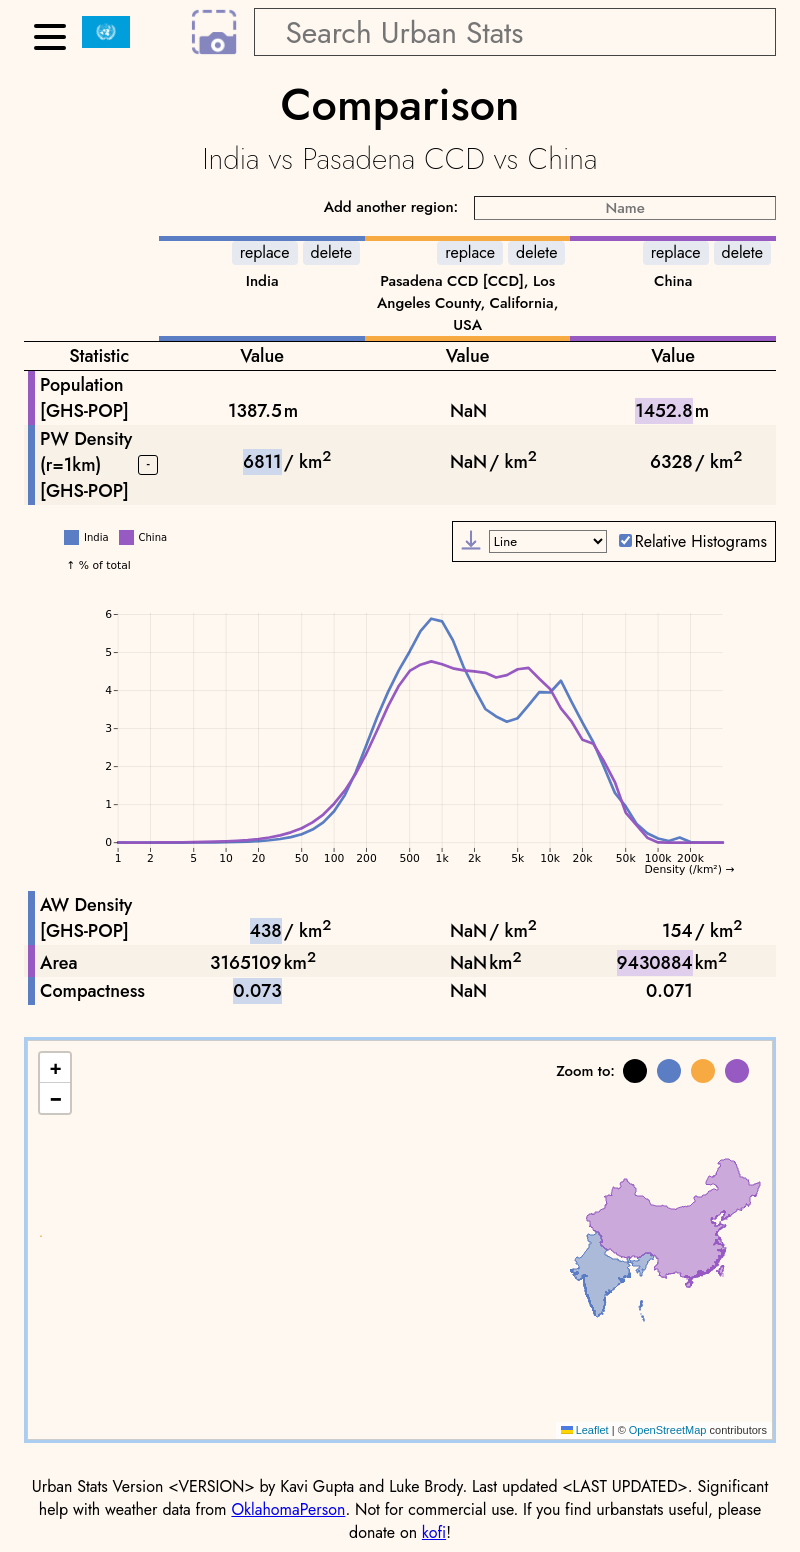
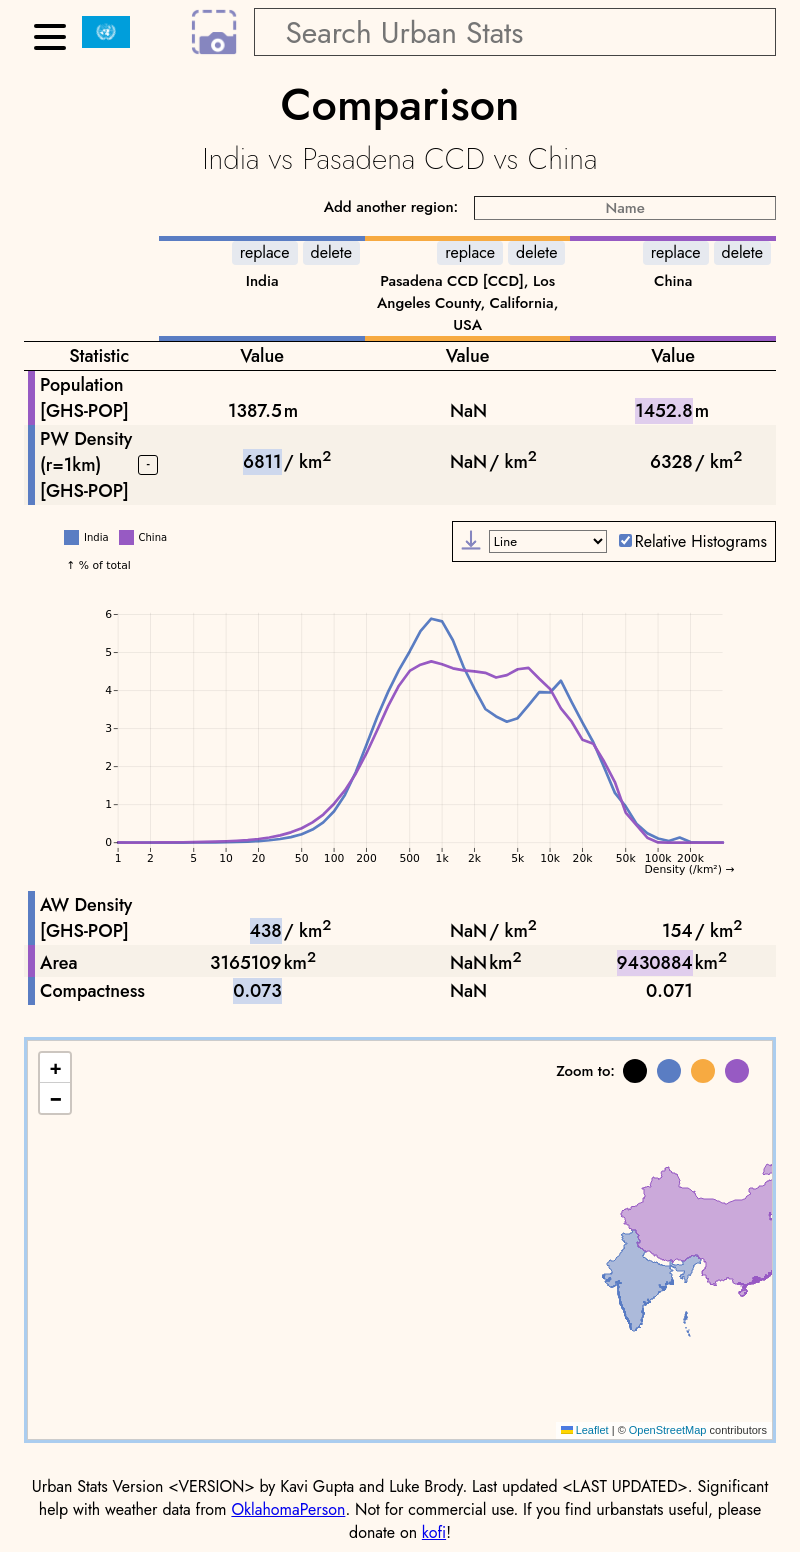
(3/3) Remove unecessary reloads, waits (#364)
Now that pages are responsive, we don't have to reload them for them to
update.

Update a few comparison screenshots since the map no longer repositions
on reload.

---------

Changed region(s): [[0.7188, 0.7423, 0.9688, 0.866]]

diff --git a/react/test/histogram_test.ts b/react/test/histogram_test.ts
@@ -1,6 +1,6 @@
 import { Selector } from 'testcafe'
 
-import { TARGET, check_textboxes, comparison_page, download_histogram, download_image, download_or_check_string, screencap, urbanstatsFixture } from './test_utils'
+import { TARGET, check_textboxes, comparison_page, download_histogram, download_image, download_or_check_string, screencap, urbanstatsFixture, waitForMapLoad } from './test_utils'
 
 export const upper_sgv = 'Upper San Gabriel Valley CCD [CCD], Los Angeles County, California, USA'
 export const pasadena = 'Pasadena CCD [CCD], Los Angeles County, California, USA'
@@ -18,8 +18,8 @@ async function download_or_check_histogram(t: TestController, name: string): Pro
 urbanstatsFixture('article check and uncheck test', `${TARGET}/article.html?longname=New+York+Urban+Center%2C+USA&universe=world`)
 
 test('histogram-article-check-uncheck', async (t) => {
+    await waitForMapLoad(t) // Need to avoid a race condition between map loading and page resizing
     await t.resizeWindow(800, 800)
-    await t.eval(() => { location.reload() })
     // count the number of `histogram-svg-panel` elements
     await t.expect(Selector('.histogram-svg-panel').count).eql(0)
     await t.click(Selector('.expand-toggle'))
@@ -31,19 +31,17 @@ test('histogram-article-check-uncheck', async (t) => {
 urbanstatsFixture('article test', `${TARGET}/article.html?longname=Germany&universe=world`)
 
 test('histogram-basic-article', async (t) => {
+    await waitForMapLoad(t) // Need to avoid a race condition between map loading and page resizing
     await t.resizeWindow(800, 800)
-    await t.eval(() => { location.reload() })
     await t.click(Selector('.expand-toggle'))
     await download_or_check_histogram(t, 'histogram-basic-article')
     await screencap(t)
 })
 
 test('histogram-basic-article-multi', async (t) => {
+    await waitForMapLoad(t) // Need to avoid a race condition between map loading and page resizing
     await t.resizeWindow(800, 800)
-    await t.eval(() => { location.reload() })
     await check_textboxes(t, ['Other Density Metrics'])
-    await t.eval(() => { location.reload() })
-    await t.wait(1000)
     const count = await Selector('.expand-toggle').count
     for (let i = 0; i < count; i++) {
         await t.click(Selector('.expand-toggle').nth(i))
@@ -57,8 +55,8 @@ test('histogram-basic-article-multi', async (t) => {
 urbanstatsFixture('comparison test heterogenous', comparison_page(['San Marino city, California, USA', pasadena, sw_sgv]))
 
 test('histogram-basic-comparison', async (t) => {
+    await waitForMapLoad(t) // Need to avoid a race condition between map loading and page resizing
     await t.resizeWindow(800, 800)
-    await t.eval(() => { location.reload() })
     // select element with class name `expand-toggle`
     await t.click(Selector('.expand-toggle'))
     await download_or_check_histogram(t, 'histogram-basic-comparison')
@@ -68,8 +66,8 @@ test('histogram-basic-comparison', async (t) => {
 urbanstatsFixture('comparison test heterogenous with nan', comparison_page(['India', 'China', pasadena]))
 
 test('histogram-basic-comparison-nan', async (t) => {
+    await waitForMapLoad(t) // Need to avoid a race condition between map loading and page resizing
     await t.resizeWindow(800, 800)
-    await t.eval(() => { location.reload() })
     // select element with class name `expand-toggle`
     await t.click(Selector('.expand-toggle'))
     await download_or_check_histogram(t, 'histogram-basic-comparison-nan')
@@ -79,8 +77,8 @@ test('histogram-basic-comparison-nan', async (t) => {
 urbanstatsFixture('comparison test heterogenous with nan in the middle', comparison_page(['India', pasadena, 'China']))
 
 test('histogram-basic-comparison-nan-middle', async (t) => {
+    await waitForMapLoad(t) // Need to avoid a race condition between map loading and page resizing
     await t.resizeWindow(800, 800)
-    await t.eval(() => { location.reload() })
     // select element with class name `expand-toggle`
     await t.click(Selector('.expand-toggle'))
     await download_or_check_histogram(t, 'histogram-basic-comparison-nan-middle')

diff --git a/react/test/quiz_test.ts b/react/test/quiz_test.ts
@@ -2,6 +2,7 @@ import { exec } from 'child_process'
 import { writeFileSync } from 'fs'
 import { promisify } from 'util'
 
+import { execa } from 'execa'
 import { RequestHook, Selector } from 'testcafe'
 
 import { TARGET, screencap, urbanstatsFixture } from './test_utils'
@@ -54,7 +55,7 @@ function quiz_fixture(fix_name: string, url: string, new_localstorage: Record<st
         // write the sql statements to the temporary file
         writeFileSync(tempfile, sql_statements)
         await promisify(exec)(`rm -f ../urbanstats-persistent-data/db.sqlite3; cd ../urbanstats-persistent-data; cat ${tempfile} | sqlite3 db.sqlite3; cd -`)
-        exec('bash ../urbanstats-persistent-data/run_for_test.sh')
+        void execa('bash', ['../urbanstats-persistent-data/run_for_test.sh'], { stdio: 'inherit' })
         await t.wait(2000)
         await t.eval(() => {
             localStorage.clear()
@@ -62,6 +63,9 @@ function quiz_fixture(fix_name: string, url: string, new_localstorage: Record<st
                 localStorage.setItem(k, new_localstorage[k])
             }
         }, { dependencies: { new_localstorage } })
+        await t.eval(() => {
+            localStorage.setItem('testHostname', 'urbanstats.org')
+        })
     })
         .afterEach(async (t) => {
             exec('killall gunicorn')
@@ -221,6 +225,7 @@ test('quiz-percentage-correct', async (t) => {
     await t.eval(() => {
         localStorage.clear()
         localStorage.setItem('persistent_id', '000000000000008')
+        localStorage.setItem('testHostname', 'urbanstats.org')
     })
     await t.eval(() => { location.reload() })
     await click_buttons(t, ['a', 'a', 'a', 'a', 'a'])
@@ -328,8 +333,6 @@ async function check_text(t: TestController, words: string, emoji: string): Prom
 
 test('quiz-results-test', async (t) => {
     await t.resizeWindow(1400, 800)
-    await t.eval(() => { location.reload() })
-    await t.wait(1000)
     await t.eval(() => { location.reload() })
     await quiz_screencap(t)
     await check_text(t, 'Excellent! 😊 4/5', '🟩🟩🟩🟩🟥')

diff --git a/react/src/quiz/statistics.ts b/react/src/quiz/statistics.ts
@@ -1,6 +1,6 @@
 const ENDPOINT = 'https://persistent.urbanstats.org'
 
-async function unique_persistent_id(): Promise<string> {
+export function unique_persistent_id(): string {
     // (domain name, id stored in local storage)
     // random 60 bit hex number
     // (15 hex digits)
@@ -9,24 +9,28 @@ async function unique_persistent_id(): Promise<string> {
         for (let i = 0; i < 15; i++) {
             random_hex += Math.floor(Math.random() * 16).toString(16)[0]
         }
-        // register via server
-        await fetch(`${ENDPOINT}/juxtastat/register_user`, {
-            method: 'POST',
-            body: JSON.stringify({ user: random_hex, domain: window.location.hostname }),
-            headers: {
-                'Content-Type': 'application/json',
-            },
-        })
         // register
         localStorage.setItem('persistent_id', random_hex)
     }
     return localStorage.getItem('persistent_id')!
 }
 
+async function registerUser(userId: string): Promise<void> {
+    // Idempotent
+    await fetch(`${ENDPOINT}/juxtastat/register_user`, {
+        method: 'POST',
+        body: JSON.stringify({ user: userId, domain: localStorage.getItem('testHostname') ?? window.location.hostname }),
+        headers: {
+            'Content-Type': 'application/json',
+        },
+    })
+}
+
 export type History = Record<string, { choices: ('A' | 'B')[], correct_pattern: boolean[] }>
 
 async function reportToServerGeneric(whole_history: History, endpoint_latest: string, endpoint_store: string, parse_day: (day: string) => number): Promise<void> {
-    const user = await unique_persistent_id()
+    const user = unique_persistent_id()
+    await registerUser(user)
     // fetch from latest_day endpoint
     const latest_day_response = await fetch(ENDPOINT + endpoint_latest, {
         method: 'POST',

diff --git a/react/test/article_test.ts b/react/test/article_test.ts
@@ -14,7 +14,6 @@ test('california-article-test', async (t) => {
 })
 
 test('neighboring-state-test', async (t) => {
-    await t.wait(1000)
     await screencap(t)
     await t
         .click(Selector('path').withAttribute('class', /tag-Arizona,_USA/))
@@ -85,9 +84,6 @@ test('uncheck-box-mobile', async (t) => {
     // Find div with class checkbox-setting containing a label with text "Race"
     // and a checkbox, then find the checkbox
     await t.resizeWindow(400, 800)
-    // refresh
-    await t.eval(() => { location.reload() })
-    await t.wait(1000)
     await check_textboxes(t, ['Race'])
 
     await screencap(t)
@@ -98,9 +94,7 @@ test('uncheck-box-mobile', async (t) => {
 
 test('uncheck-box-desktop', async (t) => {
     await t.resizeWindow(1400, 800)
-    // refresh
-    await t.eval(() => { location.reload() })
-    await t.wait(1000)
+
     await check_textboxes(t, ['Race'])
 
     await screencap(t)
@@ -111,9 +105,7 @@ test('uncheck-box-desktop', async (t) => {
 
 test('simple', async (t) => {
     await t.resizeWindow(1400, 800)
-    // refresh
-    await t.eval(() => { location.reload() })
-    await t.wait(1000)
+
     await check_textboxes(t, ['Simple Ordinals'])
 
     await screencap(t)
@@ -272,7 +264,6 @@ urbanstatsFixture('all stats test', `/article.html?longname=California%2C+USA`)
 
 test('california-all-stats', async (t) => {
     await t.resizeWindow(1400, 800)
-    await t.eval(() => { location.reload() })
     await check_all_category_boxes(t)
     await screencap(t)
 })
@@ -282,7 +273,6 @@ urbanstatsFixture('all stats test regression', `/article.html?longname=Charlotte
 
 test('charlotte-all-stats', async (t) => {
     await t.resizeWindow(1400, 800)
-    await t.eval(() => { location.reload() })
     await check_all_category_boxes(t)
     await screencap(t)
 })

diff --git a/react/test/comparison_test.ts b/react/test/comparison_test.ts
@@ -12,13 +12,11 @@ urbanstatsFixture('comparison test heterogenous', comparison_page(['San Marino c
 
 test('comparison-3-desktop-heterogenous', async (t) => {
     await t.resizeWindow(1400, 800)
-    await t.eval(() => { location.reload() })
     await screencap(t)
 })
 
 test('comparison-3-mobile-heterogenous', async (t) => {
     await t.resizeWindow(400, 800)
-    await t.eval(() => { location.reload() })
     await screencap(t)
 })
 
@@ -26,7 +24,6 @@ urbanstatsFixture('comparison test homogenous (2)', comparison_page([upper_sgv, 
 
 test('comparison-2-mobile', async (t) => {
     await t.resizeWindow(400, 800)
-    await t.eval(() => { location.reload() })
     await screencap(t)
 })
 
@@ -34,19 +31,16 @@ urbanstatsFixture('comparison test homogenous (3)', comparison_page([upper_sgv, 
 
 test('comparison-3-desktop', async (t) => {
     await t.resizeWindow(1400, 800)
-    await t.eval(() => { location.reload() })
     await screencap(t)
 })
 
 test('comparison-3-mobile', async (t) => {
     await t.resizeWindow(400, 800)
-    await t.eval(() => { location.reload() })
     await screencap(t)
 })
 
 test('comparison-3-download', async (t) => {
     await t.resizeWindow(1400, 800)
-    await t.eval(() => { location.reload() })
     await download_image(t)
 })
 
@@ -106,6 +100,5 @@ urbanstatsFixture('plotted-across-180', `${TARGET}/comparison.html?longnames=%5B
 
 test('comparison-3-plotted-across-180', async (t) => {
     await t.resizeWindow(1400, 800)
-    await t.eval(() => { location.reload() })
     await screencap(t)
 })

diff --git a/react/test/test_utils.ts b/react/test/test_utils.ts
@@ -60,6 +60,13 @@ export async function check_all_category_boxes(t: TestController): Promise<void>
     await t.eval(() => { location.reload() })
 }
 
+export async function waitForMapLoad(t: TestController): Promise<void> {
+    while (await Selector('.map-container-loading-for-testing').exists) {
+        await t.wait(1000)
+    }
+    await t.wait(1000) // Wait for map to finish rendering
+}
+
 async function prep_for_image(t: TestController): Promise<void> {
     await t.wait(1000)
     await t.eval(() => {
@@ -81,10 +88,7 @@ async function prep_for_image(t: TestController): Promise<void> {
         document.querySelectorAll('input[type=text]').forEach((element) => { element.setAttribute('style', `${element.getAttribute('style')} caret-color: transparent;`) })
     })
     // Wait for the map to finish loading
-    while (await Selector('.map-container-loading-for-testing').exists) {
-        await t.wait(1000)
-    }
-    await t.wait(1000) // Wait for map to finish rendering
+    await waitForMapLoad(t)
 }
 
 let screenshot_number = 0
@@ -164,7 +168,6 @@ export function urbanstatsFixture(name: string, url: string, beforeEach: undefin
             screenshot_number = 0
             await t.eval(() => { localStorage.clear() })
             await t.resizeWindow(1400, 800)
-            await t.eval(() => { location.reload() })
             if (beforeEach !== undefined) {
                 await beforeEach(t)
             }

diff --git a/react/src/quiz/quiz-components.tsx b/react/src/quiz/quiz-components.tsx
@@ -5,7 +5,7 @@ import '../components/quiz.css'
 import { useHeaderTextClass } from '../utils/responsive'
 
 import { nameOfQuizKind } from './quiz'
-import { History } from './statistics'
+import { History, unique_persistent_id } from './statistics'
 
 export function Header({ quiz }: { quiz: { kind: 'juxtastat' | 'retrostat', name: string | number } }): ReactNode {
     let text = nameOfQuizKind(quiz.kind)
@@ -55,16 +55,10 @@ export function Help(props: { quiz_kind: 'juxtastat' | 'retrostat' }): ReactNode
 }
 
 export function UserId(): ReactNode {
-    const user_id = localStorage.getItem('persistent_id')
-    if (user_id === null) {
-        return ''
-    }
-    else {
-        return (
-            <div>
-                {'Your user id is '}
-                <span className="juxtastat-user-id">{user_id}</span>
-            </div>
-        )
-    }
+    return (
+        <div>
+            {'Your user id is '}
+            <span className="juxtastat-user-id">{unique_persistent_id()}</span>
+        </div>
+    )
 }

diff --git a/react/test/mapper_test.ts b/react/test/mapper_test.ts
@@ -7,7 +7,7 @@ import { TARGET, download_or_check_string, most_recent_download_path, screencap,
 async function check_geojson(t: TestController, path: string): Promise<void> {
     // download the geojson by clicking the button
     await t.click(Selector('button').withText('Export as GeoJSON'))
-    await t.wait(3000)
+    await t.wait(1000) // sometimes downloading takes a little time
     const mrdp = most_recent_download_path()
     const most_recent_download = fs.readFileSync(mrdp, 'utf8')
     await download_or_check_string(t, most_recent_download, path)
@@ -24,8 +24,6 @@ urbanstatsFixture('mapping-more-complex', `${TARGET}/mapper.html?settings=H4sIAA
 
 test('mapping-more-complex', async (t) => {
     await t.resizeWindow(1400, 800)
-    await t.eval(() => { location.reload() })
-    await t.wait(5000)
     await screencap(t)
     await check_geojson(t, 'mapping-more-complex-geojson')
 })

diff --git a/react/test/statistics_test.ts b/react/test/statistics_test.ts
@@ -6,7 +6,6 @@ urbanstatsFixture('statistics', `${TARGET}/article.html?longname=Indianapolis+IN
 
 test('statistics-page', async (t) => {
     await t.resizeWindow(1400, 800)
-    await t.eval(() => { location.reload() })
     // click the link labeled "Population"
     await t
         .click(Selector('a').withText(/^Population$/))

diff --git a/react/test/settings_test.ts b/react/test/settings_test.ts
@@ -28,7 +28,6 @@ test('check-settings-loaded', async (t) => {
 test('check-settings-loaded-desktop', async (t) => {
     // screenshot path: images/first_test.png
     await t.resizeWindow(1400, 800)
-    await t.eval(() => { location.reload() })
     await screencap(t)
 })
 
